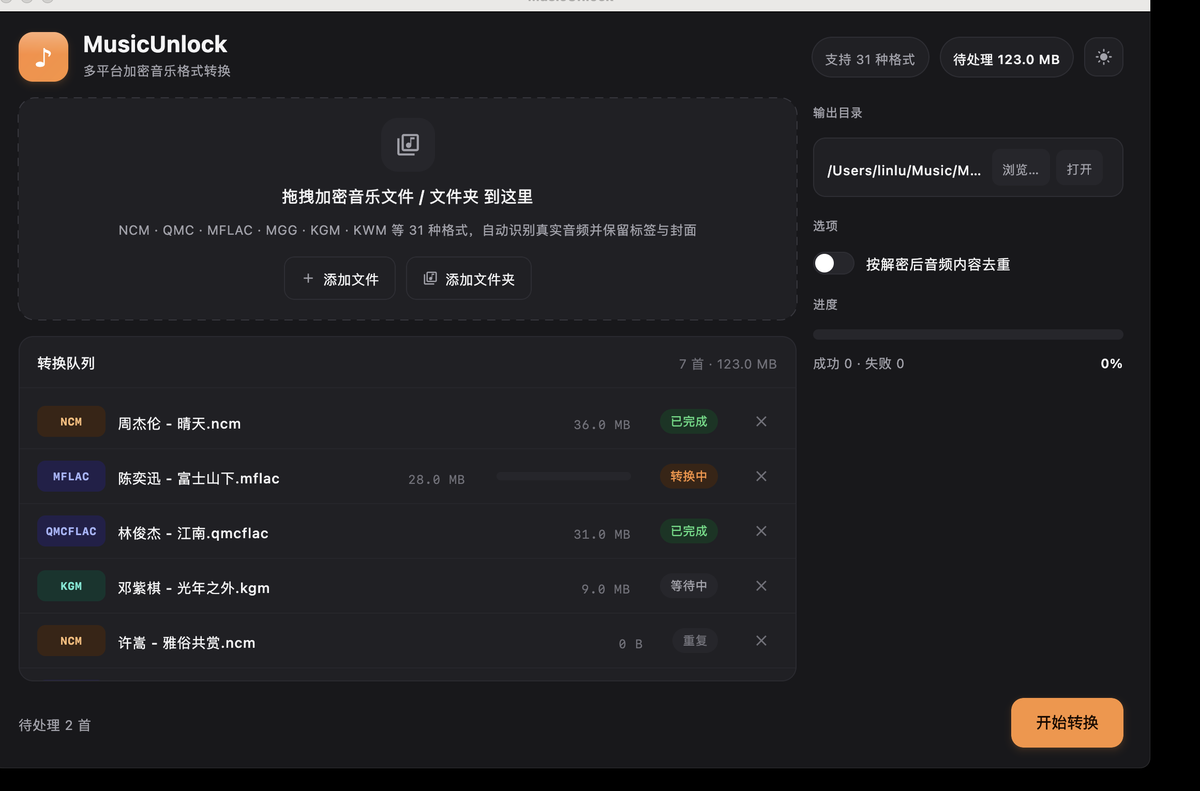
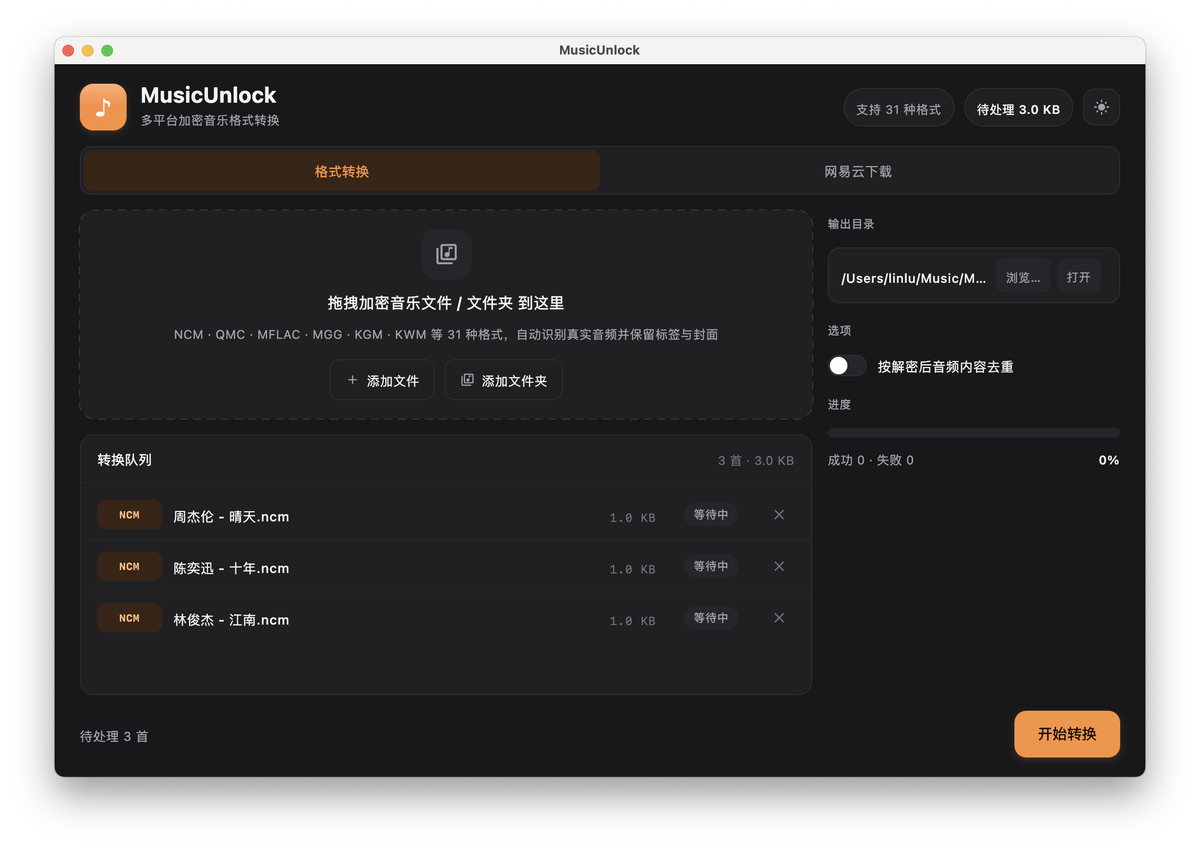
更新 README：补充三种登录方式说明与网易云下载截图

diff --git a/README.md b/README.md
@@ -14,6 +14,10 @@
 
 ![空状态首屏](screenshots/light-empty.png)
 
+| 网易云下载 · 登录后 | 网易云下载 · 下载中 |
+|:---:|:---:|
+| ![登录后空状态](screenshots/dl-empty.png) | ![下载进行中](screenshots/dl-busy.png) |
+
 ## 功能特性
 
 - 覆盖网易云 / QQ音乐 / 酷狗 / 酷我四家主流平台的加密格式
@@ -21,7 +25,7 @@
 - 深/浅双主题一键切换
 - 拖拽或点击添加文件/文件夹，队列内逐文件显示格式、大小与状态
 - 按解密后音频内容做 SHA-256 去重（保留不带 `(N)` 后缀的文件）
-- 网易云下载：扫码登录 → 查看并多选歌单 → 下载 MP3（保留歌名/歌手/专辑/封面）或把下载任务提交到 Codex 任务面板「待立项」
+- 网易云下载：扫码 / 短信验证码 / 浏览器三种方式登录 → 查看并多选歌单 → 下载 MP3（保留歌名/歌手/专辑/封面）
 - 命令行批量转换与桌面 GUI 两用
 
 ## 支持格式
@@ -76,12 +80,15 @@
 
 ## 网易云下载
 
-顶部切换到「网易云下载」页，可把网易云歌单歌曲下载为 MP3，或把下载任务提交到任务面板统一管理。
+顶部切换到「网易云下载」页，可把网易云歌单歌曲下载为 MP3。
 
-### 1. 扫码登录
+### 1. 登录
 
-- 点击「获取二维码」，用网易云 App「扫一扫」完成登录；登录态仅保存在本次会话内。
-- 登录成功后界面展示账号昵称与头像；点「退出登录」即清除会话。
+登录页提供三种方式，登录态仅保存在本次会话内；成功后界面展示账号昵称与头像，点「退出登录」即清除会话。
+
+- **扫码登录**：点击「获取二维码」，用网易云 App「扫一扫」完成登录。部分账号会触发网易云服务端的安全验证（返回 8821），此时扫码无法完成，请改用浏览器登录。
+- **验证码登录**：输入网易云绑定手机号，点击「发送验证码」后填入验证码登录。若当前网络触发安全验证，会提示改用浏览器登录。
+- **浏览器登录（推荐）**：自动打开本机 Chrome/Edge 进入网易云官方登录页，你在浏览器内完成登录后自动读取登录态并回到 App，无需复制粘贴。
 
 ### 2. 选择歌单
 
@@ -93,11 +100,6 @@
 - 点「下载 MP3」把选中歌单的歌曲下载到右侧输出目录（默认 `~/Music/MusicUnlock`）。
 - 按官方接口获取音频，高码率优先、不可用时自动降级；输出统一为 MP3，并写回歌名 / 歌手 / 专辑 / 封面。
 - 官方返回 FLAC 等非 MP3 格式时，自动调用系统 ffmpeg 转码为 MP3（未安装 ffmpeg 时保留原格式并提示）。
-
-### 4. 生成下载任务并提交
-
-- 点「生成下载任务并提交」，选中歌单逐首生成下载任务，通过 taskctl 提交到 Codex 任务面板（musicunlock 项目），状态为「待立项」（backlog）。
-- 每条任务包含歌曲名、歌手、来源歌单；右侧「记录」区实时显示提交结果与任务编号。
 
 ## 命令行
 
@@ -156,9 +158,9 @@ src/main/kotlin/musicunlock/
     KwmDecoder.kt  酷我 KWM
     AudioSniffer.kt / Formats.kt / MusicDecoder.kt
   ncm/            网易云下载
-    NeteaseApi.kt     扫码登录（unikey+轮询）/ 账号 / 歌单 / 播放地址
+    NeteaseApi.kt     扫码/短信验证码登录（weapi 加密）/ 账号 / 歌单 / 播放地址
+    BrowserLogin.kt   浏览器登录（CDP 读取登录态 Cookie）
     Mp3Downloader.kt  官方下载、MP3 转码、标签写回
-    TaskboardClient.kt  taskctl 提交下载任务到任务面板
   service/        MusicConverter（转换编排）、TagWriter（标签写回）
   cli/            MainCli（命令行）
   ui/             App.kt（双页签）、DownloadPage.kt（网易云下载页）、Theme.kt、FileDialogs.kt
